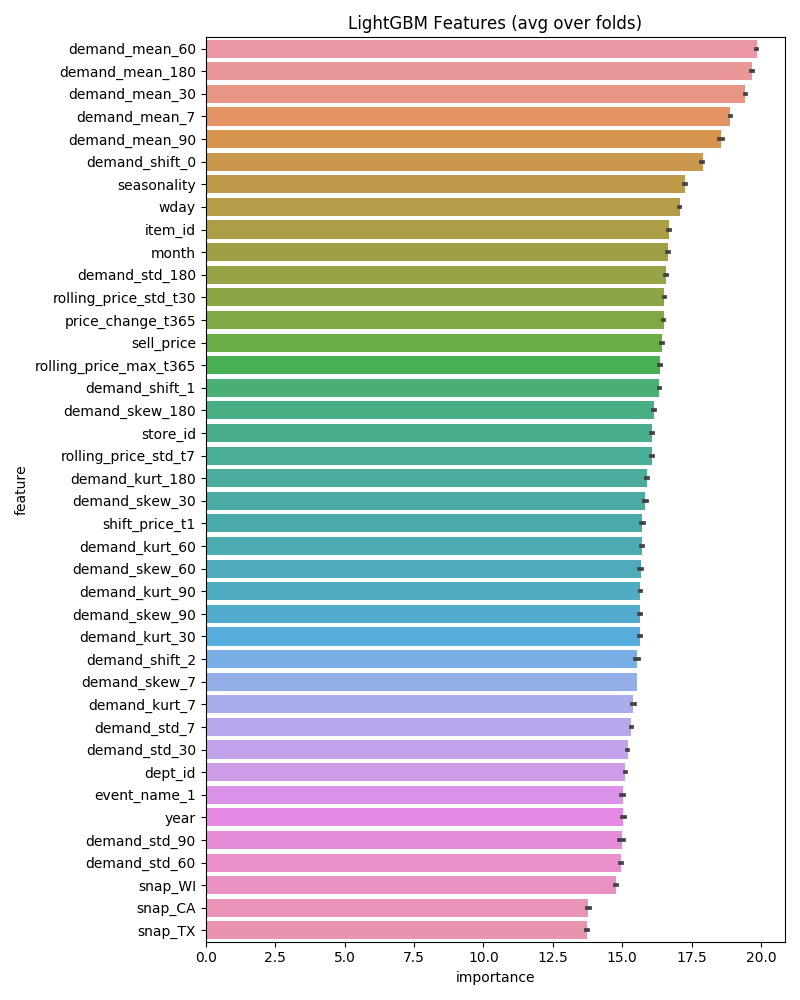
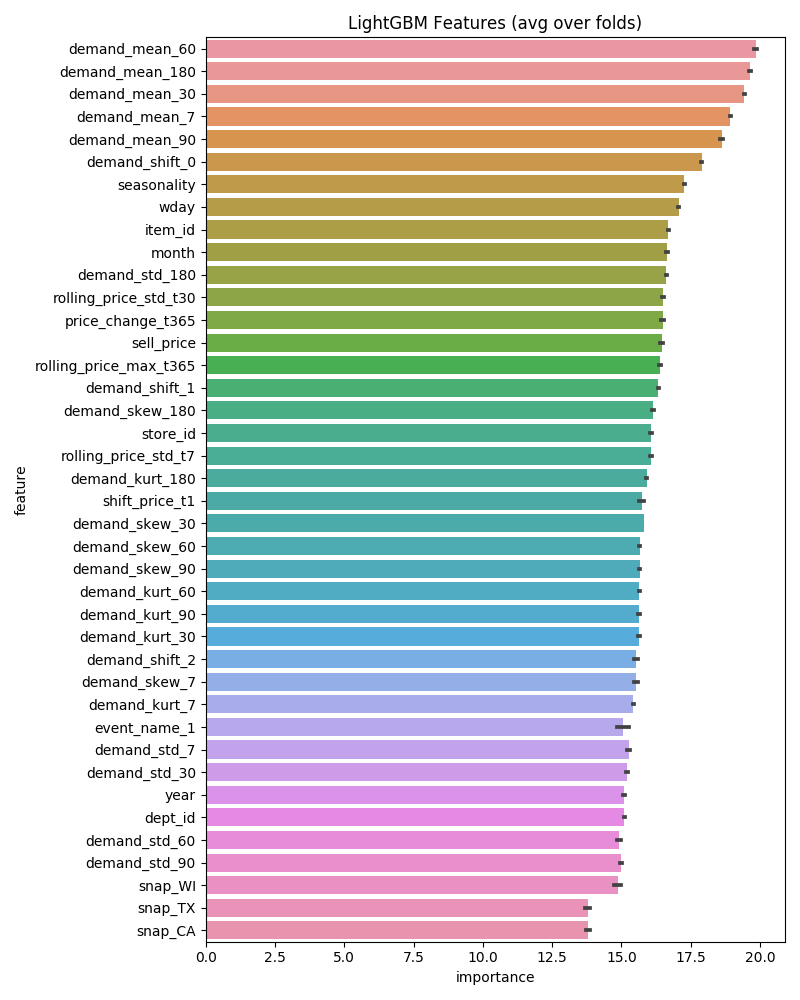
LB#8 cv:2.127057

diff --git a/src/201_train_lgbm.py b/src/201_train_lgbm.py
@@ -13,7 +13,7 @@ import warnings
 from contextlib import contextmanager
 from datetime import datetime, timedelta
 from glob import glob
-from sklearn.model_selection import TimeSeriesSplit, KFold, StratifiedKFold
+from sklearn.model_selection import TimeSeriesSplit, KFold, StratifiedKFold, GroupKFold
 from tqdm import tqdm
 
 from utils import line_notify, to_json, rmse, save2pkl, submit
@@ -52,7 +52,8 @@ def kfold_lightgbm(train_df, test_df, num_folds, debug=False):
     print("Starting LightGBM. Train shape: {}".format(train_df.shape))
 
     # Cross validation
-    folds = StratifiedKFold(n_splits=num_folds,shuffle=True,random_state=4950)
+    folds = GroupKFold(n_splits= num_folds)
+#    folds = StratifiedKFold(n_splits=num_folds,shuffle=True,random_state=4950)
 #    folds = CustomTimeSeriesSplitter(n_splits=5, train_days=365*2, test_days=DAYS_PRED, day_col='d_numeric')
 
     # Create arrays and dataframes to store results
@@ -62,7 +63,7 @@ def kfold_lightgbm(train_df, test_df, num_folds, debug=False):
     feats = [f for f in train_df.columns if f not in FEATS_EXCLUDED]
 
     # k-fold
-    for n_fold, (train_idx, valid_idx) in enumerate(folds.split(train_df[feats], train_df['store_id'])):
+    for n_fold, (train_idx, valid_idx) in enumerate(folds.split(train_df[feats], groups=train_df['d_numeric'])):
         train_x, train_y = train_df[feats].iloc[train_idx], train_df['demand'].iloc[train_idx]
         valid_x, valid_y = train_df[feats].iloc[valid_idx], train_df['demand'].iloc[valid_idx]
 
